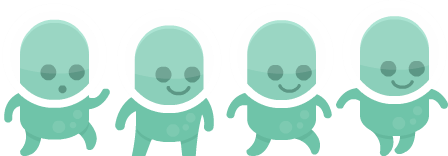
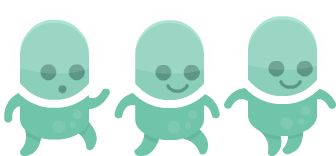
step 2 done

diff --git a/step2/lib/game/main.js b/step2/lib/game/main.js
@@ -5,29 +5,21 @@ ig.module(
 	'impact.game',
 	'game.entities.background',
 	'game.entities.player',
-	'game.entities.enemy',
 	'impact.font'
 )
 .defines(function(){
 
 MyGame = ig.Game.extend({
 	bg:null,
-	player:null,
-	resetTimer:null,
 	gravity:800,
+	player:null,
 	start:false,
-	end:false,
-	enemyTimer:null,
 	tileImage:new ig.Image("media/assets/tile.png"),
 	init: function() {
-		this.enemyTimer = new ig.Timer();
-		
-		ig.input.bind(ig.KEY.UP_ARROW,"jump");
-		ig.input.bind(ig.KEY.W,"jump");
-
 		this.bg = ig.game.spawnEntity(EntityBackground,0,0);
+		ig.input.bind(ig.KEY.UP_ARROW,'jump');
+		ig.input.bind(ig.KEY.W,'jump');
 		this.player = ig.game.spawnEntity(EntityPlayer,0,0);
-
 		ig.game.sortEntitiesDeferred();
 	},
 	
@@ -35,23 +27,7 @@ MyGame = ig.Game.extend({
 		// Update all entities and backgroundMaps
 		this.parent();
 		if(this.bg){
-			if(this.enemyTimer && this.enemyTimer.delta()>5){
-				var enemySizeY=105;
-
-				ig.game.spawnEntity(EntityEnemy,640,480-enemySizeY-this.tileImage.height);
-				ig.game.sortEntitiesDeferred();
-				this.enemyTimer.reset();
-			}
-
-			if(this.end && this.resetTimer ==null){
-				this.resetTimer = new ig.Timer();
-			}
-
-			if(this.resetTimer&&this.resetTimer.delta()>1){
-				ig.system.setGame(MyGame);
-				this.enemyTimer=null;
-				this.resetTimer=null;
-			}
+			this.bg.setSpeed(200);
 
 			if(!this.start && this.player.onGround){
 				this.player.run();

diff --git a/step3/lib/game/main.js b/step3/lib/game/main.js
@@ -5,29 +5,21 @@ ig.module(
 	'impact.game',
 	'game.entities.background',
 	'game.entities.player',
-	'game.entities.enemy',
 	'impact.font'
 )
 .defines(function(){
 
 MyGame = ig.Game.extend({
 	bg:null,
-	player:null,
-	resetTimer:null,
 	gravity:800,
+	player:null,
 	start:false,
-	end:false,
-	enemyTimer:null,
 	tileImage:new ig.Image("media/assets/tile.png"),
 	init: function() {
-		this.enemyTimer = new ig.Timer();
-		
-		ig.input.bind(ig.KEY.UP_ARROW,"jump");
-		ig.input.bind(ig.KEY.W,"jump");
-
 		this.bg = ig.game.spawnEntity(EntityBackground,0,0);
+		ig.input.bind(ig.KEY.UP_ARROW,'jump');
+		ig.input.bind(ig.KEY.W,'jump');
 		this.player = ig.game.spawnEntity(EntityPlayer,0,0);
-
 		ig.game.sortEntitiesDeferred();
 	},
 	
@@ -35,23 +27,7 @@ MyGame = ig.Game.extend({
 		// Update all entities and backgroundMaps
 		this.parent();
 		if(this.bg){
-			if(this.enemyTimer && this.enemyTimer.delta()>5){
-				var enemySizeY=105;
-
-				ig.game.spawnEntity(EntityEnemy,640,480-enemySizeY-this.tileImage.height);
-				ig.game.sortEntitiesDeferred();
-				this.enemyTimer.reset();
-			}
-
-			if(this.end && this.resetTimer ==null){
-				this.resetTimer = new ig.Timer();
-			}
-
-			if(this.resetTimer&&this.resetTimer.delta()>1){
-				ig.system.setGame(MyGame);
-				this.enemyTimer=null;
-				this.resetTimer=null;
-			}
+			this.bg.setSpeed(200);
 
 			if(!this.start && this.player.onGround){
 				this.player.run();

diff --git a/step2/lib/game/entities/enemy.js b/step2/lib/game/entities/enemy.js
@@ -2,33 +2,14 @@ ig.module('game.entities.enemy')
 .requires('impact.entity')
 .defines(function(){
 	EntityEnemy = ig.Entity.extend({
-		type:ig.Entity.TYPE.B,
-		checkAgainst:ig.Entity.TYPE.A,
-		maxVel:{x:1000,y:1000},
-		size:{x:92,y:105},
-		zIndex:1,
-		gravityFactor:0,
-		animSheet:new ig.AnimationSheet('media/assets/enemy.png',92,105),
 		init:function(x,y,settings){
 			this.parent(x,y,settings);
-			this.addAnim('idle',0.1,[0,1]);
-			this.currentAnim=this.anims.idle;
 		},
 		update:function(){
 			this.parent();
-
-			this.vel.x=-250;
-			
-			if(this.pos.x+this.size.x<0){
-				this.kill();
-			}
 		},
 		draw:function(){
 			this.parent();
-		},
-		check:function(other,axis){
-			other.kill();
-			ig.game.end=true;
 		}
 	})
 })

diff --git a/step3/lib/game/entities/enemy.js b/step3/lib/game/entities/enemy.js
@@ -2,33 +2,14 @@ ig.module('game.entities.enemy')
 .requires('impact.entity')
 .defines(function(){
 	EntityEnemy = ig.Entity.extend({
-		type:ig.Entity.TYPE.B,
-		checkAgainst:ig.Entity.TYPE.A,
-		maxVel:{x:1000,y:1000},
-		size:{x:92,y:105},
-		zIndex:1,
-		gravityFactor:0,
-		animSheet:new ig.AnimationSheet('media/assets/enemy.png',92,105),
 		init:function(x,y,settings){
 			this.parent(x,y,settings);
-			this.addAnim('idle',0.1,[0,1]);
-			this.currentAnim=this.anims.idle;
 		},
 		update:function(){
 			this.parent();
-
-			this.vel.x=-250;
-			
-			if(this.pos.x+this.size.x<0){
-				this.kill();
-			}
 		},
 		draw:function(){
 			this.parent();
-		},
-		check:function(other,axis){
-			other.kill();
-			ig.game.end=true;
 		}
 	})
 })

diff --git a/step2/lib/game/entities/background.js b/step2/lib/game/entities/background.js
@@ -19,11 +19,15 @@ ig.module('game.entities.background')
 			if(currX < -640){
 				this.bgPosX = 0;
 			}
+
 			this.image.draw(currX, this.pos.y);
 			this.image.draw(currX+this.size.x,this.pos.y);
 
+			var offsetY = this.size.y-ig.game.tileImage.height;
 			for(var i=0;i<20;i++){
-				ig.game.tileImage.draw(currX + (i*ig.game.tileImage.height),this.pos.y+this.size.y-ig.game.tileImage.height);
+				var x=currX + (i*ig.game.tileImage.height);
+				var y=this.pos.y+offsetY;
+				ig.game.tileImage.draw(x,y);
 			}
 		},
 		setSpeed:function(speed){

diff --git a/step3/lib/game/entities/background.js b/step3/lib/game/entities/background.js
@@ -19,11 +19,15 @@ ig.module('game.entities.background')
 			if(currX < -640){
 				this.bgPosX = 0;
 			}
+
 			this.image.draw(currX, this.pos.y);
 			this.image.draw(currX+this.size.x,this.pos.y);
 
+			var offsetY = this.size.y-ig.game.tileImage.height;
 			for(var i=0;i<20;i++){
-				ig.game.tileImage.draw(currX + (i*ig.game.tileImage.height),this.pos.y+this.size.y-ig.game.tileImage.height);
+				var x=currX + (i*ig.game.tileImage.height);
+				var y=this.pos.y+offsetY;
+				ig.game.tileImage.draw(x,y);
 			}
 		},
 		setSpeed:function(speed){

diff --git a/step2/lib/game/entities/player.js b/step2/lib/game/entities/player.js
@@ -12,7 +12,7 @@ ig.module('game.entities.player')
 		init:function(x,y,settings){
 			this.parent(x,y,settings);
 			this.addAnim('jump',1,[0]);
-			this.addAnim('run',0.1,[2,3]);
+			this.addAnim('run',0.1,[1,2]);
 		},
 		update:function(){
 			this.parent();

diff --git a/step3/lib/game/entities/player.js b/step3/lib/game/entities/player.js
@@ -12,7 +12,7 @@ ig.module('game.entities.player')
 		init:function(x,y,settings){
 			this.parent(x,y,settings);
 			this.addAnim('jump',1,[0]);
-			this.addAnim('run',0.1,[2,3]);
+			this.addAnim('run',0.1,[1,2]);
 		},
 		update:function(){
 			this.parent();

diff --git a/step4/lib/game/entities/player.js b/step4/lib/game/entities/player.js
@@ -12,7 +12,7 @@ ig.module('game.entities.player')
 		init:function(x,y,settings){
 			this.parent(x,y,settings);
 			this.addAnim('jump',1,[0]);
-			this.addAnim('run',0.1,[2,3]);
+			this.addAnim('run',0.1,[1,2]);
 		},
 		update:function(){
 			this.parent();

diff --git a/step4/lib/game/main.js b/step4/lib/game/main.js
@@ -35,6 +35,7 @@ MyGame = ig.Game.extend({
 		// Update all entities and backgroundMaps
 		this.parent();
 		if(this.bg){
+			this.bg.setSpeed(200);
 			if(this.enemyTimer && this.enemyTimer.delta()>5){
 				var enemySizeY=105;
 
